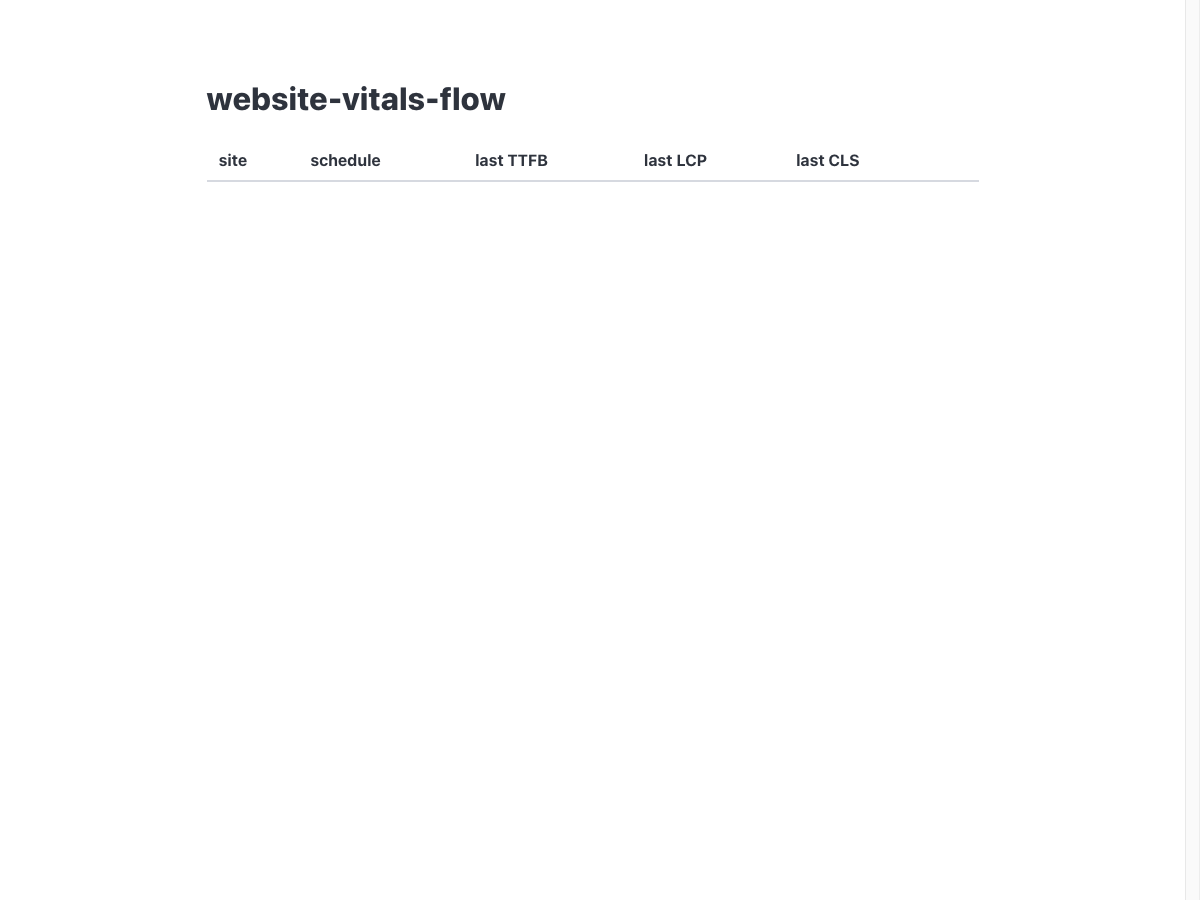
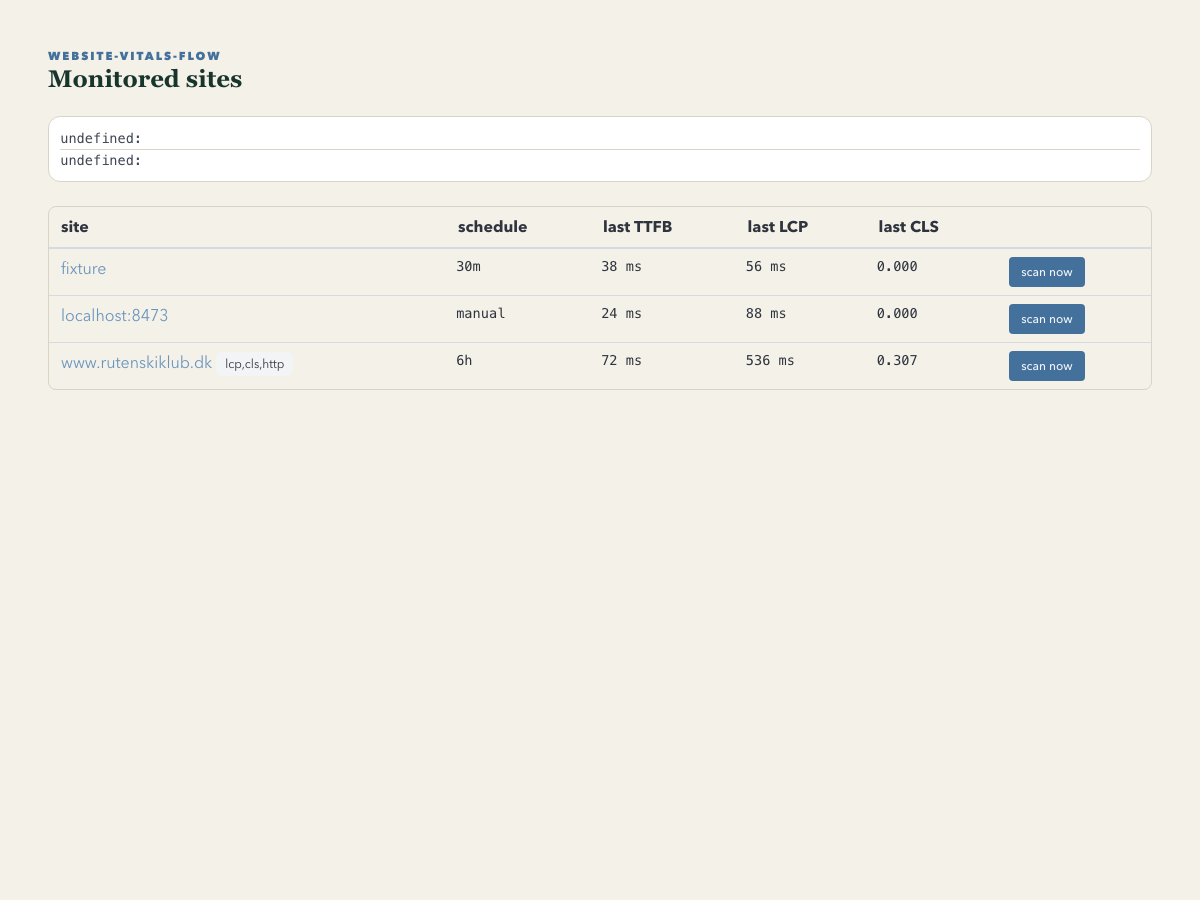
Dashboard: KBM visual language — paper/ink palette + steel accent
- --wvf-* tokens mirror --kbm-*: paper #f4f1e8/ink #18352d/line/muted,
  single steel-blue accent driving Bulma primary+link channels, dark
  theme via html[data-theme=dark]
- Eyebrow headers, Georgia serif stat numbers, bordered table
  containers, mono columns — same UI grammar as the KBM dashboard
- Site detail gains findings list w/ severity coloring + guide links,
  deep/only tags on sites; runs table keyed on new json field names
- Refreshed docs/img/dashboard.png

Generated with [Devin](https://devin.ai)

diff --git a/internal/server/static/index.html b/internal/server/static/index.html
@@ -1,29 +1,43 @@
-<!doctype html><html><head><meta charset=utf-8><title>website-vitals-flow</title>
+<!doctype html><html data-theme="light"><head><meta charset=utf-8><title>website-vitals-flow</title>
 <link rel=stylesheet href=/vendor/bulma.min.css><link rel=stylesheet href=/style.css></head>
-<body><section class=section><div class=container>
-<h1 class=title>website-vitals-flow</h1>
-<div id=app x-data="dash" x-init="load()">
-<div class=notification is-info is-light x-show="jobs.length" x-cloak>
-  <template x-for="j in jobs.slice(0,4)"><div x-text="j.state+': '+(j.detail||'')"></div></template>
-</div>
-<table class="table is-fullwidth is-hoverable"><thead>
+<body><section class=section><div class="container" style="max-width:1120px">
+<p class=eyebrow>website-vitals-flow</p>
+<h1 class="title is-4 section-heading">Monitored sites</h1>
+<div x-data="dash" x-init="load()">
+<template x-if="jobs.length"><div class="box is-shadowless" style="border:1px solid var(--wvf-line);padding:.7em">
+  <template x-for="j in jobs.slice(0,4)"><div class="job-row mono" x-text="j.state+': '+(j.detail||'')"></div></template>
+</div></template>
+<div class=table-container><table class="table is-fullwidth is-hoverable"><thead>
 <tr><th>site</th><th>schedule</th><th>last TTFB</th><th>last LCP</th><th>last CLS</th><th></th></tr></thead>
 <tbody><template x-for="s in sites"><tr>
-  <td><a href="#" @click.prevent="open(s.key)" x-text="s.label||s.key"></a></td>
-  <td x-text="s.schedule||'manual'"></td>
-  <td x-text="fmt(last[s.key]&&last[s.key].ttfb_ms)+' ms'"></td>
-  <td x-text="fmt(last[s.key]&&last[s.key].lcp_ms)+' ms'"></td>
-  <td x-text="last[s.key]?last[s.key].cls.toFixed(3):'-'"></td>
-  <td><button class="button is-small" @click="scan(s.key)" x-bind:disabled="busy">scan now</button></td>
-</tr></template></tbody></table>
-<div x-show="sel"><h2 class=subtitle x-text="'trend — '+sel"></h2>
-  <canvas id=chart></canvas>
-  <table class="table is-fullwidth"><thead><tr><th>id</th><th>when</th><th>engine</th><th>ttfb</th><th>lcp</th><th>cls</th><th>tbt</th><th>proto</th></tr></thead>
+  <td><a href="#" @click.prevent="open(s.key)" x-text="s.label||s.key"></a>
+      <span class="tag is-light" x-show="s.deep">deep</span>
+      <span class="tag is-light" x-show="s.only" x-text="s.only"></span></td>
+  <td class=mono x-text="s.schedule||'manual'"></td>
+  <td class=mono x-text="fmt(last[s.key]&&last[s.key].ttfb_ms)+' ms'"></td>
+  <td class=mono x-text="fmt(last[s.key]&&last[s.key].lcp_ms)+' ms'"></td>
+  <td class=mono x-text="last[s.key]?last[s.key].cls.toFixed(3):'-'"></td>
+  <td><button class="button is-small is-primary" @click="scan(s.key)" x-bind:disabled="busy">scan now</button></td>
+</tr></template></tbody></table></div>
+<div x-show="sel" style="margin-top:2em">
+  <p class=eyebrow x-text="sel"></p>
+  <h2 class="title is-5 section-heading">Trend</h2>
+  <div class="box is-shadowless" style="border:1px solid var(--wvf-line)"><canvas id=chart></canvas></div>
+  <h2 class="title is-5 section-heading" x-show="findings.length">Findings</h2>
+  <template x-for="f in findings"><div class="job-row" style="padding:.4em 0">
+    <span x-bind:class="'sev-'+f.severity" x-text="'['+f.severity+']'"></span>
+    <span x-text="f.title"></span>
+    <a x-show="f.link" x-bind:href="f.link" target="_blank" rel="noopener" x-text="'→ guide'"></a>
+  </div></template>
+  <h2 class="title is-5 section-heading">Runs</h2>
+  <div class=table-container><table class="table is-fullwidth"><thead>
+  <tr><th>id</th><th>when</th><th>engine</th><th>ttfb</th><th>lcp</th><th>cls</th><th>tbt</th><th>proto</th></tr></thead>
   <tbody><template x-for="r in runs"><tr>
-    <td x-text="r.ID"></td><td x-text="r.started_at.slice(0,16).replace('T',' ')"></td>
-    <td x-text="r.engine"></td><td x-text="fmt(r.ttfb_ms)"></td><td x-text="fmt(r.lcp_ms)"></td>
-    <td x-text="r.cls.toFixed(3)"></td><td x-text="fmt(r.tbt_ms)"></td><td x-text="r.http_protocol"></td>
-  </tr></template></tbody></table></div>
+    <td class=mono x-text="r.id"></td><td class=mono x-text="r.started_at.slice(0,16).replace('T',' ')"></td>
+    <td class=mono x-text="r.engine"></td><td class=mono x-text="fmt(r.ttfb_ms)"></td>
+    <td class=mono x-text="fmt(r.lcp_ms)"></td><td class=mono x-text="r.cls.toFixed(3)"></td>
+    <td class=mono x-text="fmt(r.tbt_ms)"></td><td class=mono x-text="r.http_protocol"></td>
+  </tr></template></tbody></table></div></div>
 </div></div></section>
 <script src=/vendor/chart.umd.js></script><script src=/vendor/cdn.min.js defer></script>
 <script src=/app.js></script></body></html>

diff --git a/internal/server/static/style.css b/internal/server/static/style.css
@@ -1,5 +1,50 @@
-body{font-family:system-ui,sans-serif;max-width:900px;margin:2em auto;padding:0 1em}
-table{width:100%;border-collapse:collapse}
-td,th{text-align:left;padding:.4em;border-bottom:1px solid #ddd}
-.job,.run{font:13px/1.6 ui-monospace,monospace;color:#555}
-button{cursor:pointer}
+:root {
+  --bulma-family-primary: "Avenir Next", "Trebuchet MS", sans-serif;
+  --bulma-family-code: ui-monospace, SFMono-Regular, Menlo, monospace;
+  --wvf-paper: #f4f1e8;
+  --wvf-ink: #18352d;
+  --wvf-line: #d9d4c6;
+  --wvf-muted: #68756e;
+  /* one accent: Spacelab steel blue */
+  --wvf-steel-h: 210deg;
+  --wvf-steel-s: 39%;
+  --wvf-steel-l: 44%;
+  --wvf-steel: hsl(var(--wvf-steel-h), var(--wvf-steel-s), var(--wvf-steel-l));
+  --bulma-primary-h: var(--wvf-steel-h);
+  --bulma-primary-s: var(--wvf-steel-s);
+  --bulma-primary-l: var(--wvf-steel-l);
+  --bulma-primary-rgb: 68, 110, 155;
+  --bulma-primary-invert-l: 96%;
+  --bulma-link-h: var(--wvf-steel-h);
+  --bulma-link-s: var(--wvf-steel-s);
+  --bulma-link-l: var(--wvf-steel-l);
+  --bulma-link-rgb: 68, 110, 155;
+}
+html[data-theme="dark"] {
+  --wvf-paper: #141a16;
+  --wvf-ink: #e6ece8;
+  --wvf-line: #303933;
+  --wvf-muted: #98a69d;
+  --wvf-steel-l: 62%;
+  --bulma-primary-l: 62%;
+  --bulma-primary-rgb: 136, 171, 208;
+  --bulma-primary-invert-l: 8%;
+  --bulma-link-l: 62%;
+  --bulma-link-rgb: 136, 171, 208;
+}
+[x-cloak] { display: none !important; }
+body { min-height: 100vh; background: var(--wvf-paper); color: var(--wvf-ink); }
+.eyebrow { color: var(--wvf-steel); font-size: .72rem; font-weight: 800;
+  letter-spacing: .17em; text-transform: uppercase; }
+.stat-number { color: var(--wvf-ink); font-family: Georgia, "Times New Roman", serif;
+  font-size: 2.1rem; line-height: 1; }
+.stat-label { color: var(--wvf-muted); font-size: .76rem; font-weight: 700;
+  letter-spacing: .08em; text-transform: uppercase; }
+.section-heading { font-family: Georgia, "Times New Roman", serif; color: var(--wvf-ink); }
+.table-container { border: 1px solid var(--wvf-line); border-radius: 8px; }
+.table { background: transparent; }
+.job-row + .job-row { border-top: 1px solid var(--wvf-line); }
+.mono { font-family: var(--bulma-family-code); font-size: .85rem; }
+.sev-poor { color: #c0392b; font-weight: 700; }
+.sev-warn { color: #b9770e; font-weight: 700; }
+.sev-info { color: var(--wvf-muted); }

diff --git a/internal/server/static/app.js b/internal/server/static/app.js
@@ -1,6 +1,6 @@
 document.addEventListener('alpine:init', () => {
   Alpine.data('dash', () => ({
-    sites: [], last: {}, jobs: [], runs: [], sel: '', busy: false, chart: null,
+    sites: [], last: {}, jobs: [], runs: [], sel: '', busy: false, chart: null, findings: [],
     fmt(v){ return v==null?'-':Math.round(v) },
     async j(u,o){ const r=await fetch(u,o); return r.json() },
     async load(){
@@ -14,6 +14,10 @@ document.addEventListener('alpine:init', () => {
     async open(key){
       this.sel=key;
       this.runs=(await this.j('/api/sites/'+key+'/runs'))||[];
+      if(this.runs.length){
+        const det=await this.j('/api/runs/'+this.runs[0].id);
+        try{ this.findings=JSON.parse(det.detail_json).findings||[] }catch(e){ this.findings=[] }
+      }
       this.draw();
     },
     async scan(key){
